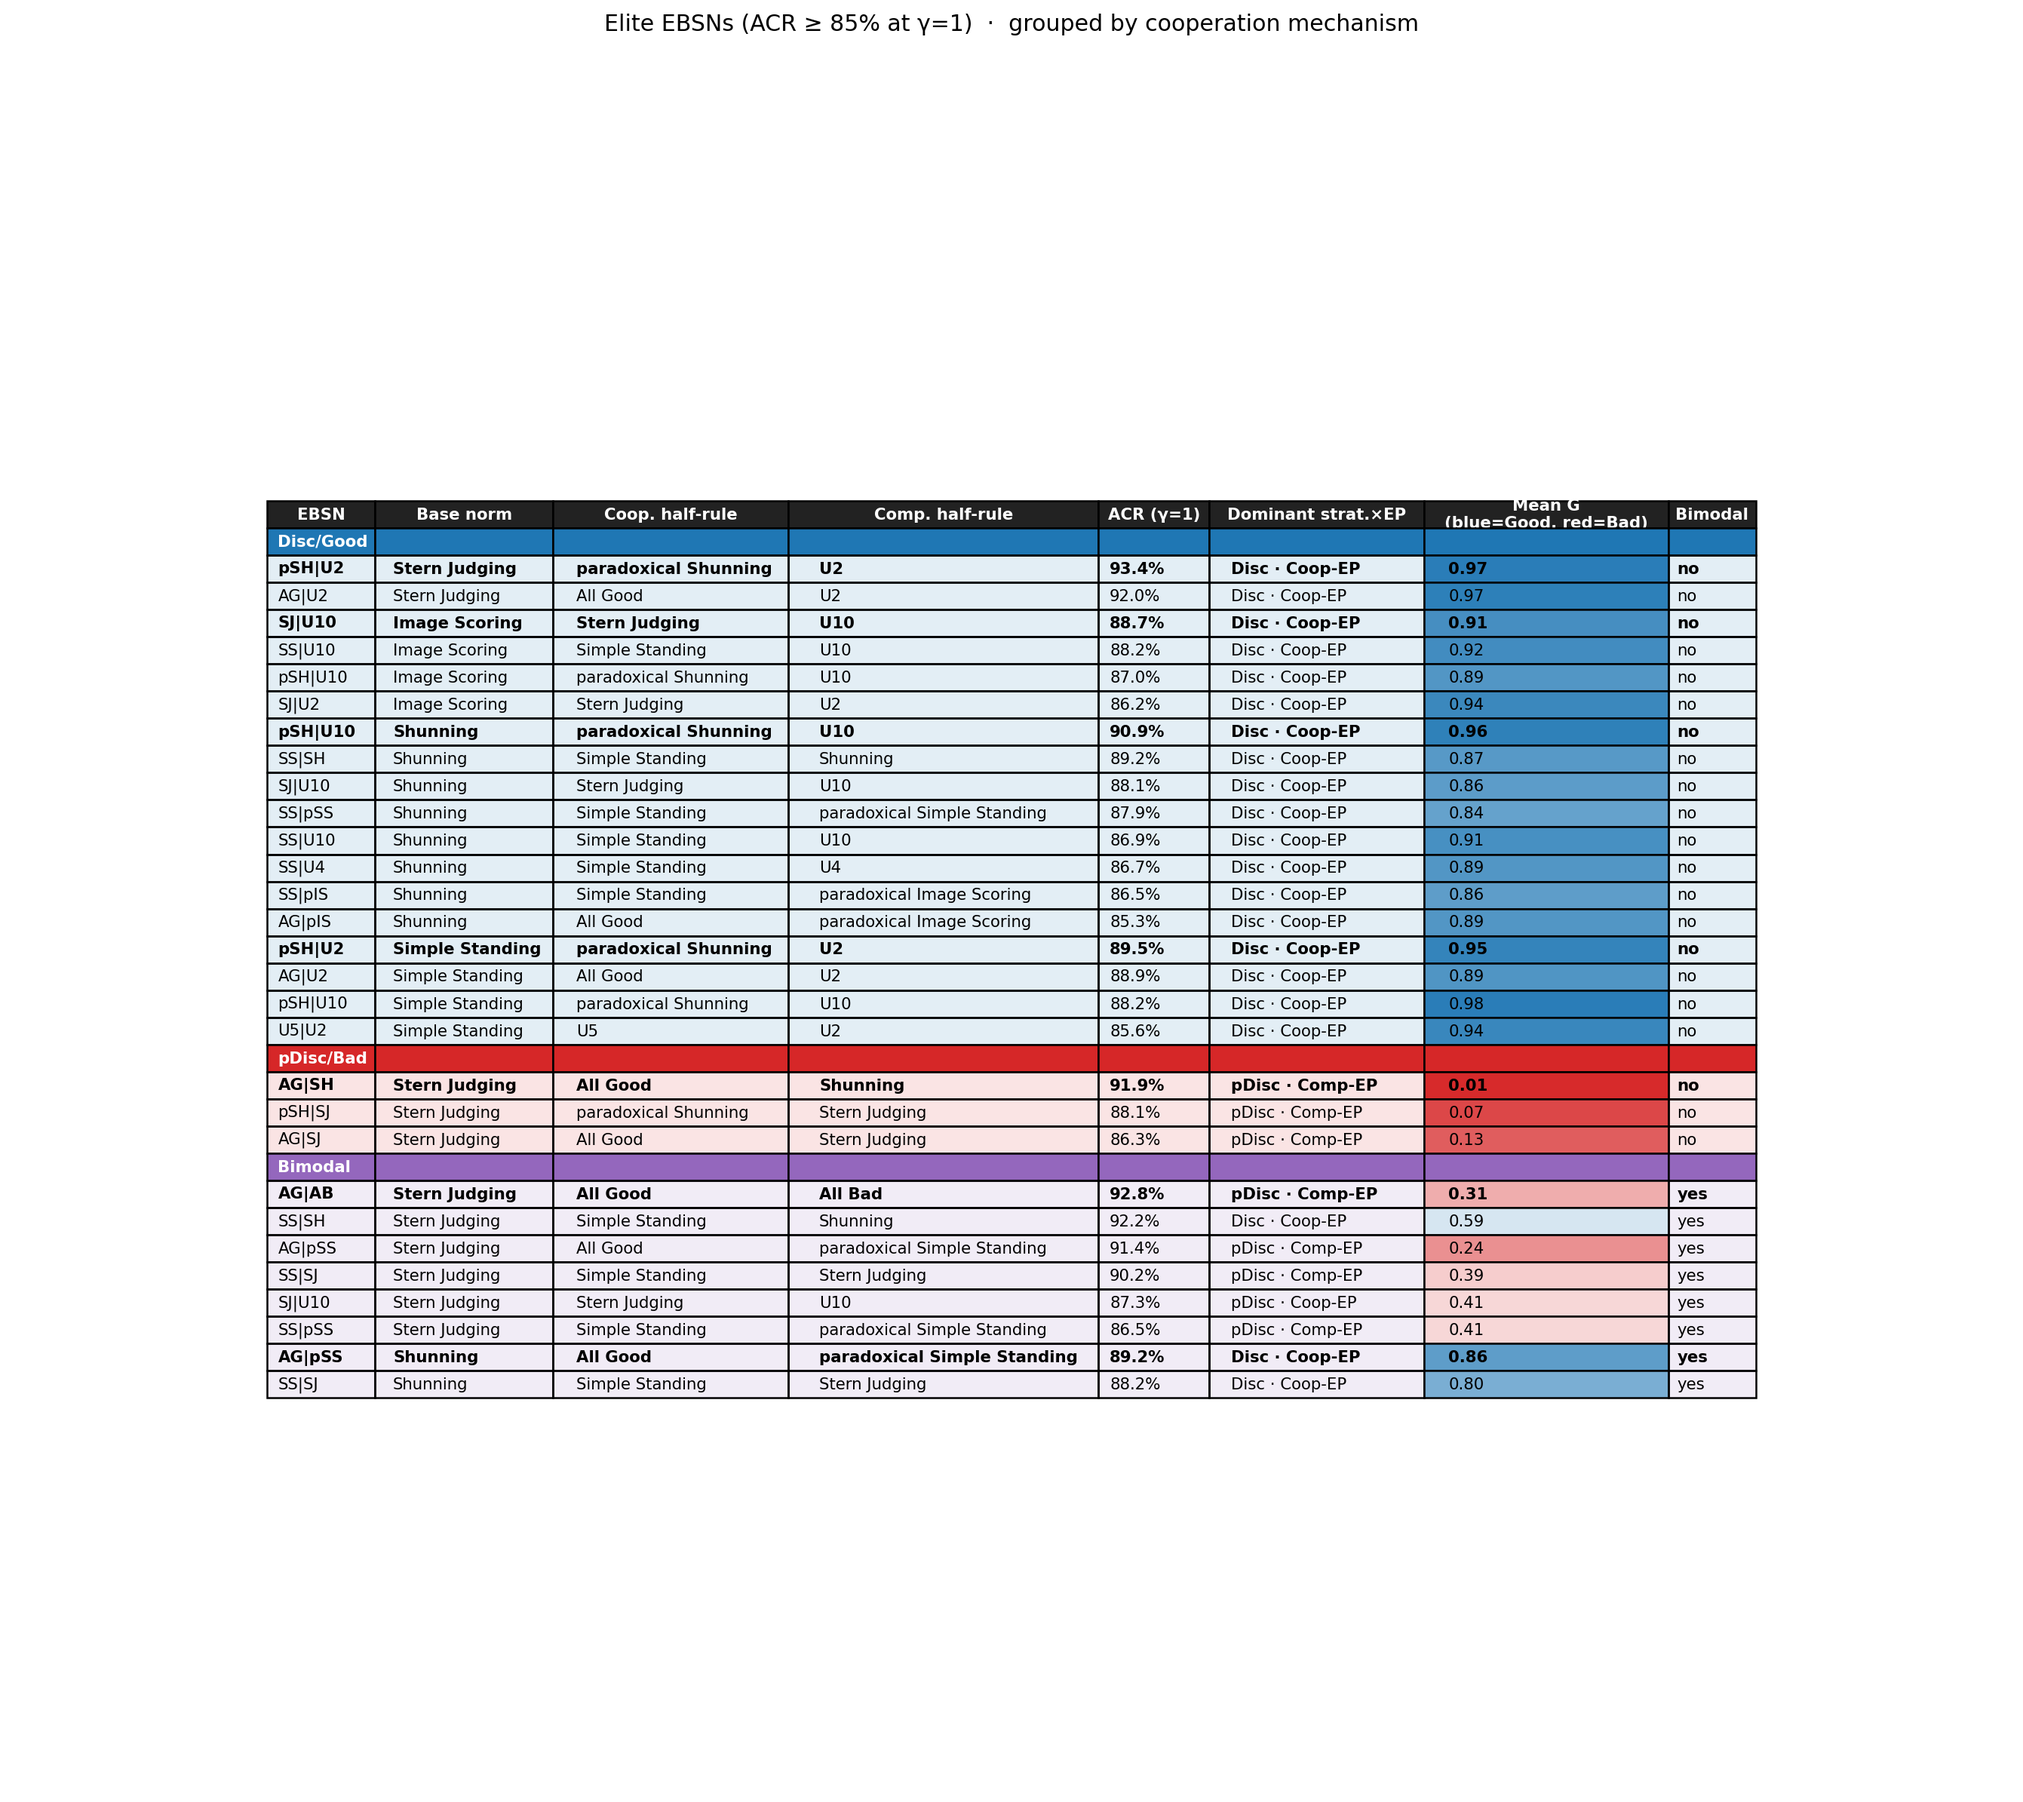
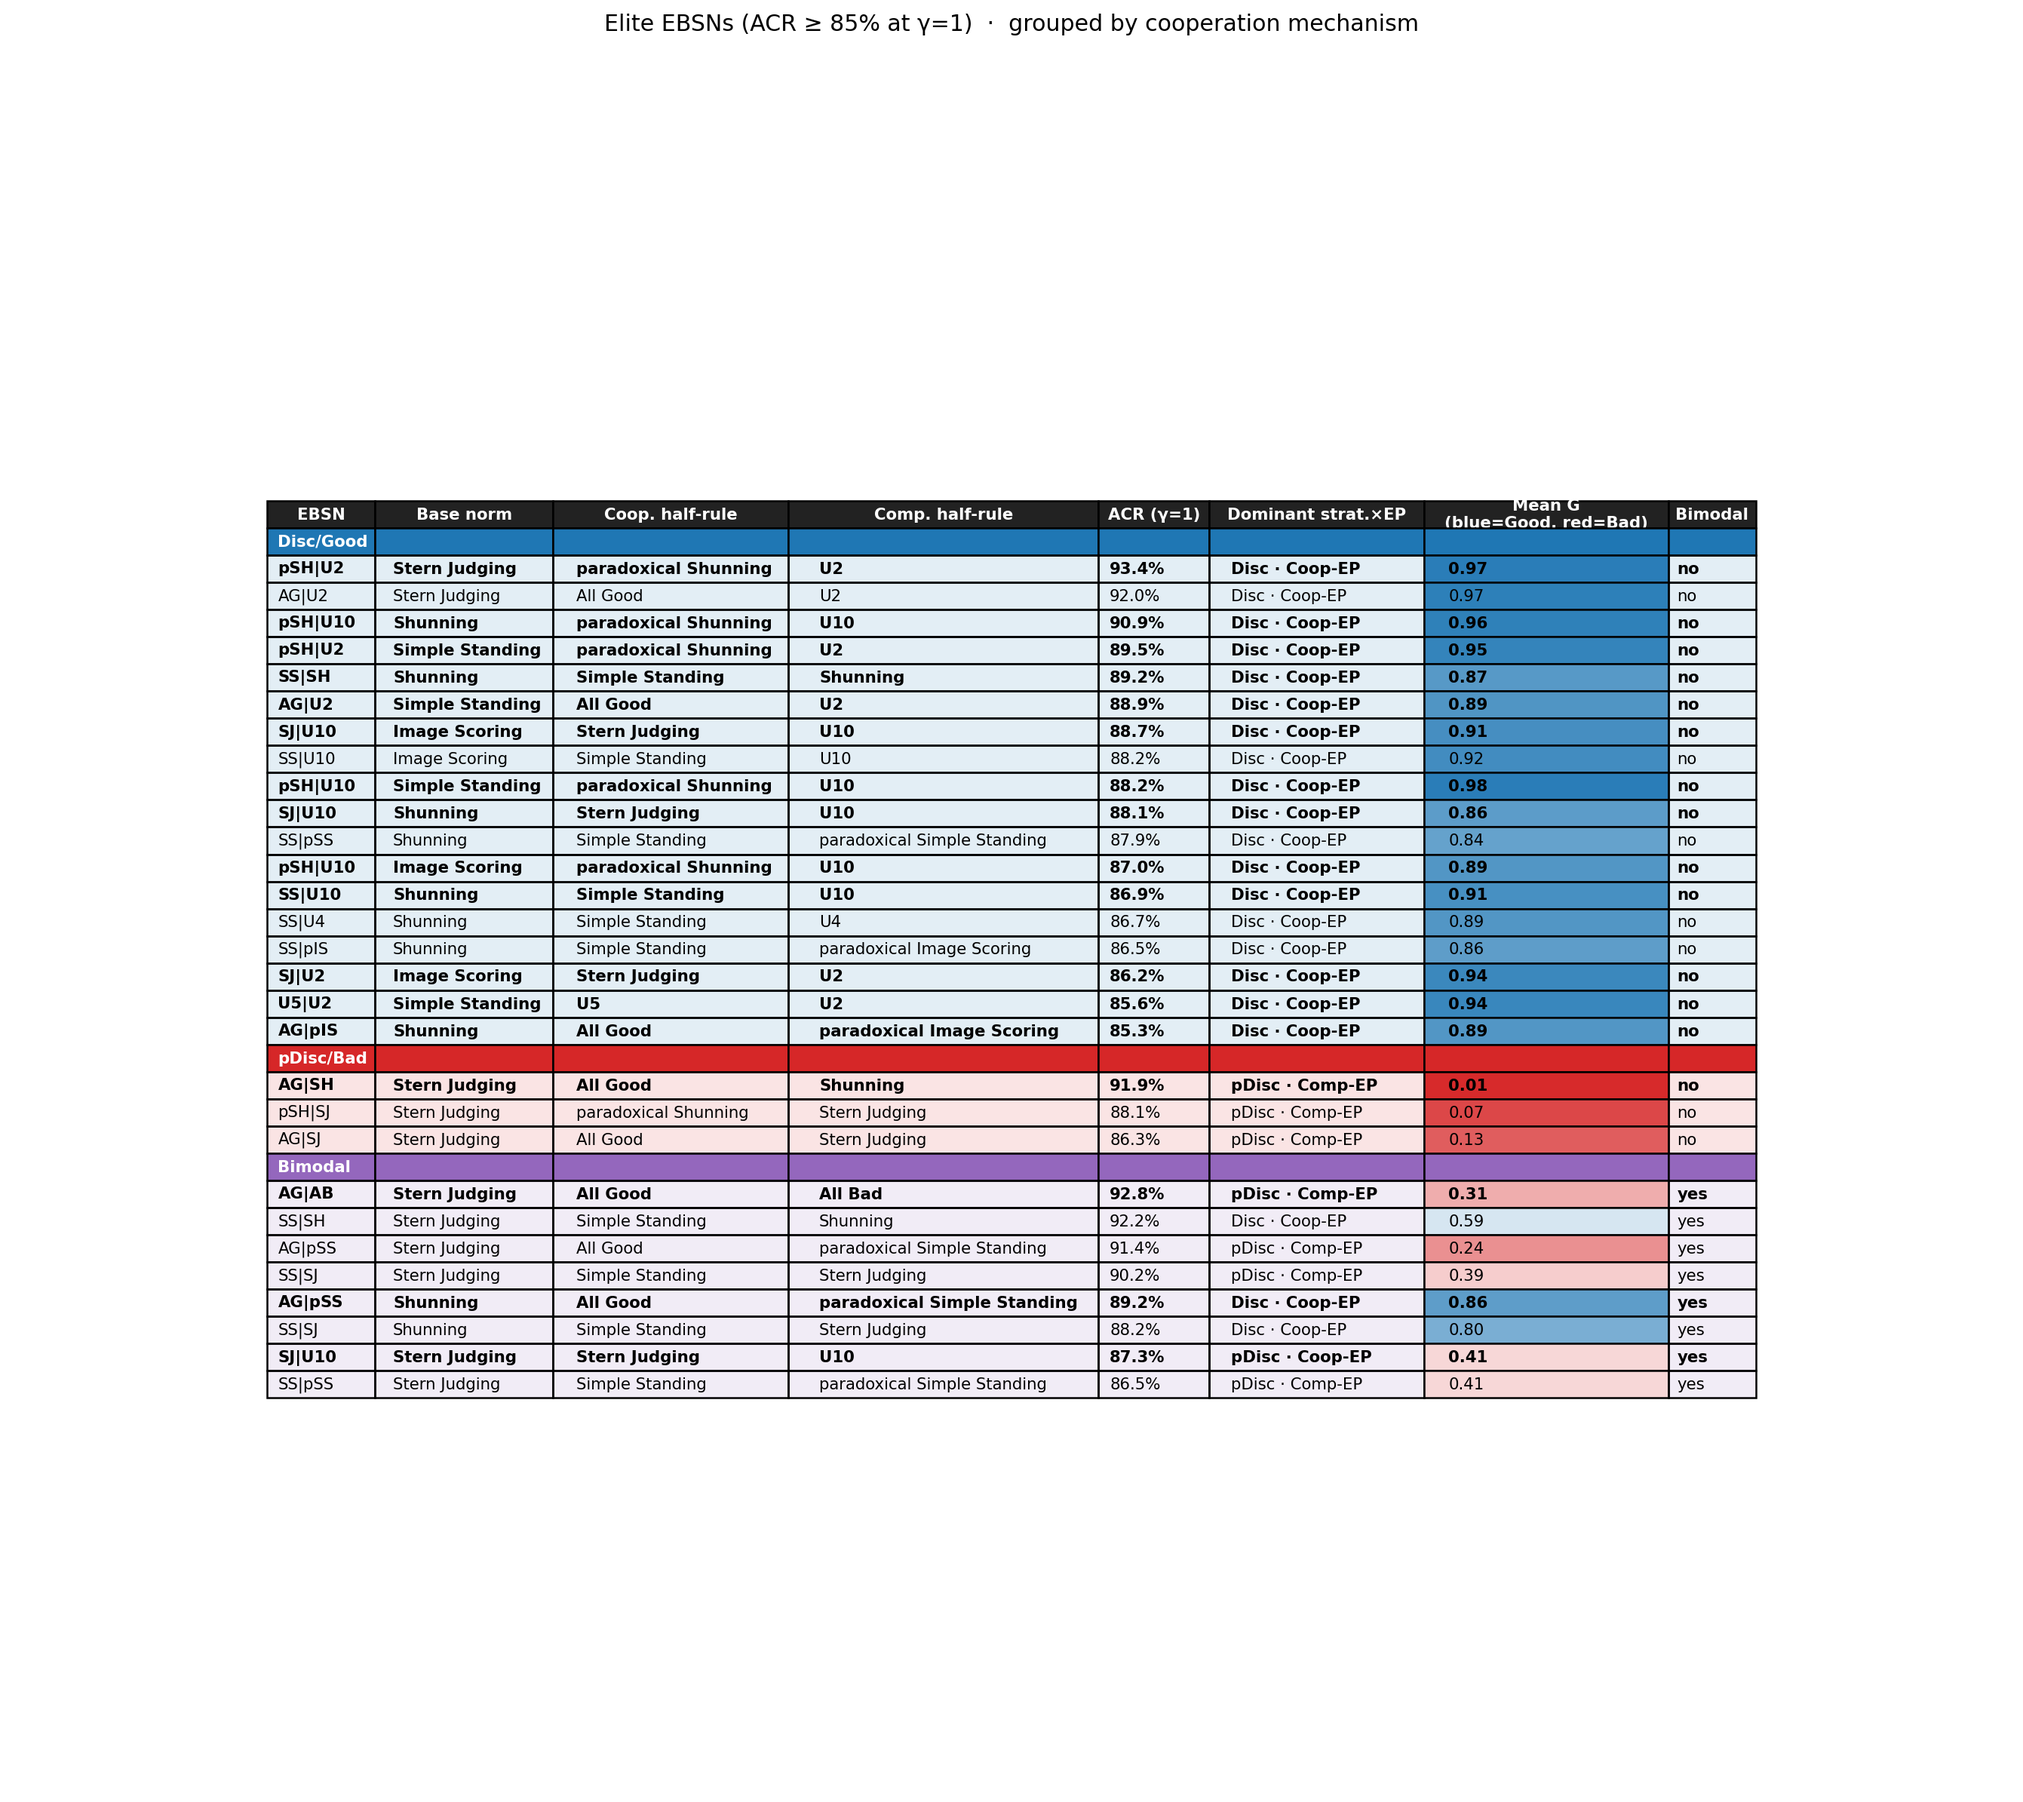
Sort elite table by ACR within equilibrium groups
Remove secondary sort by base norm; entries now ordered purely by
ACR descending within each group. Base column shown on every row,
bolded when the base norm changes from the previous row.

diff --git a/plotting/plots/elite_table.tex b/plotting/plots/elite_table.tex
@@ -10,40 +10,40 @@ EBSN & Base & Coop.\ half-rule & Comp.\ half-rule & ACR\,(\%) & Dom.\ strat.$\ti
 \multicolumn{8}{l}{\textit{Disc\,/\,Good}} \\
 \midrule
 pSH|U2 & \textbf{SJ} & pSH & U2 & 93.4 & Disc$/n$ & 0.97 & --- \\
-AG|U2 &  & AG & U2 & 92.0 & Disc$/n$ & 0.97 & --- \\
-SJ|U10 & \textbf{IS} & SJ & U10 & 88.7 & Disc$/n$ & 0.91 & --- \\
-SS|U10 &  & SS & U10 & 88.2 & Disc$/n$ & 0.92 & --- \\
-pSH|U10 &  & pSH & U10 & 87.0 & Disc$/n$ & 0.89 & --- \\
-SJ|U2 &  & SJ & U2 & 86.2 & Disc$/n$ & 0.94 & --- \\
+AG|U2 & SJ & AG & U2 & 92.0 & Disc$/n$ & 0.97 & --- \\
 pSH|U10 & \textbf{SH} & pSH & U10 & 90.9 & Disc$/n$ & 0.96 & --- \\
-SS|SH &  & SS & SH & 89.2 & Disc$/n$ & 0.87 & --- \\
-SJ|U10 &  & SJ & U10 & 88.1 & Disc$/n$ & 0.86 & --- \\
-SS|pSS &  & SS & pSS & 87.9 & Disc$/n$ & 0.84 & --- \\
-SS|U10 &  & SS & U10 & 86.9 & Disc$/n$ & 0.91 & --- \\
-SS|U4 &  & SS & U4 & 86.7 & Disc$/n$ & 0.89 & --- \\
-SS|pIS &  & SS & pIS & 86.5 & Disc$/n$ & 0.86 & --- \\
-AG|pIS &  & AG & pIS & 85.3 & Disc$/n$ & 0.89 & --- \\
 pSH|U2 & \textbf{SS} & pSH & U2 & 89.5 & Disc$/n$ & 0.95 & --- \\
-AG|U2 &  & AG & U2 & 88.9 & Disc$/n$ & 0.89 & --- \\
-pSH|U10 &  & pSH & U10 & 88.2 & Disc$/n$ & 0.98 & --- \\
-U5|U2 &  & U5 & U2 & 85.6 & Disc$/n$ & 0.94 & --- \\
+SS|SH & \textbf{SH} & SS & SH & 89.2 & Disc$/n$ & 0.87 & --- \\
+AG|U2 & \textbf{SS} & AG & U2 & 88.9 & Disc$/n$ & 0.89 & --- \\
+SJ|U10 & \textbf{IS} & SJ & U10 & 88.7 & Disc$/n$ & 0.91 & --- \\
+SS|U10 & IS & SS & U10 & 88.2 & Disc$/n$ & 0.92 & --- \\
+pSH|U10 & \textbf{SS} & pSH & U10 & 88.2 & Disc$/n$ & 0.98 & --- \\
+SJ|U10 & \textbf{SH} & SJ & U10 & 88.1 & Disc$/n$ & 0.86 & --- \\
+SS|pSS & SH & SS & pSS & 87.9 & Disc$/n$ & 0.84 & --- \\
+pSH|U10 & \textbf{IS} & pSH & U10 & 87.0 & Disc$/n$ & 0.89 & --- \\
+SS|U10 & \textbf{SH} & SS & U10 & 86.9 & Disc$/n$ & 0.91 & --- \\
+SS|U4 & SH & SS & U4 & 86.7 & Disc$/n$ & 0.89 & --- \\
+SS|pIS & SH & SS & pIS & 86.5 & Disc$/n$ & 0.86 & --- \\
+SJ|U2 & \textbf{IS} & SJ & U2 & 86.2 & Disc$/n$ & 0.94 & --- \\
+U5|U2 & \textbf{SS} & U5 & U2 & 85.6 & Disc$/n$ & 0.94 & --- \\
+AG|pIS & \textbf{SH} & AG & pIS & 85.3 & Disc$/n$ & 0.89 & --- \\
 \midrule
 \multicolumn{8}{l}{\textit{pDisc\,/\,Bad}} \\
 \midrule
 AG|SH & \textbf{SJ} & AG & SH & 91.9 & pDisc$/m$ & 0.01 & --- \\
-pSH|SJ &  & pSH & SJ & 88.1 & pDisc$/m$ & 0.07 & --- \\
-AG|SJ &  & AG & SJ & 86.3 & pDisc$/m$ & 0.13 & --- \\
+pSH|SJ & SJ & pSH & SJ & 88.1 & pDisc$/m$ & 0.07 & --- \\
+AG|SJ & SJ & AG & SJ & 86.3 & pDisc$/m$ & 0.13 & --- \\
 \midrule
 \multicolumn{8}{l}{\textit{Bimodal}} \\
 \midrule
 AG|AB & \textbf{SJ} & AG & AB & 92.8 & pDisc$/m$ & 0.31 & $\bullet$ \\
-SS|SH &  & SS & SH & 92.2 & Disc$/n$ & 0.59 & $\bullet$ \\
-AG|pSS &  & AG & pSS & 91.4 & pDisc$/m$ & 0.24 & $\bullet$ \\
-SS|SJ &  & SS & SJ & 90.2 & pDisc$/m$ & 0.39 & $\bullet$ \\
-SJ|U10 &  & SJ & U10 & 87.3 & pDisc$/n$ & 0.41 & $\bullet$ \\
-SS|pSS &  & SS & pSS & 86.5 & pDisc$/m$ & 0.41 & $\bullet$ \\
+SS|SH & SJ & SS & SH & 92.2 & Disc$/n$ & 0.59 & $\bullet$ \\
+AG|pSS & SJ & AG & pSS & 91.4 & pDisc$/m$ & 0.24 & $\bullet$ \\
+SS|SJ & SJ & SS & SJ & 90.2 & pDisc$/m$ & 0.39 & $\bullet$ \\
 AG|pSS & \textbf{SH} & AG & pSS & 89.2 & Disc$/n$ & 0.86 & $\bullet$ \\
-SS|SJ &  & SS & SJ & 88.2 & Disc$/n$ & 0.80 & $\bullet$ \\
+SS|SJ & SH & SS & SJ & 88.2 & Disc$/n$ & 0.80 & $\bullet$ \\
+SJ|U10 & \textbf{SJ} & SJ & U10 & 87.3 & pDisc$/n$ & 0.41 & $\bullet$ \\
+SS|pSS & SJ & SS & pSS & 86.5 & pDisc$/m$ & 0.41 & $\bullet$ \\
 \bottomrule
 \end{tabular}
 \end{table}

diff --git a/plotting/elite_table.py b/plotting/elite_table.py
@@ -126,13 +126,11 @@ def build_table() -> pd.DataFrame:
         rows.append(agg1)
 
     df = pd.concat(rows, ignore_index=True)
-    # Primary sort: equilibrium (Disc/Good first), then base norm order, then ACR desc
+    # Sort: equilibrium group (Disc/Good, pDisc/Bad, Bimodal), then ACR descending
     equil_order = {"Disc/Good": 0, "pDisc/Bad": 1, "Bimodal": 2}
-    base_order_map = {n: i for i, n in enumerate(BASE_ORDER)}
     df["_esort"] = df["equilibrium"].map(equil_order)
-    df["_bsort"] = df["base_norm"].map(base_order_map)
-    df = df.sort_values(["_esort", "_bsort", "acr_1"], ascending=[True, True, False])
-    df = df.drop(columns=["_esort", "_bsort"])
+    df = df.sort_values(["_esort", "acr_1"], ascending=[True, False])
+    df = df.drop(columns=["_esort"])
     return df.reset_index(drop=True)
 
 
@@ -340,7 +338,7 @@ def write_latex_table(df: pd.DataFrame, out_path: Path) -> None:
             prev_equil = eq
             prev_base  = None
 
-        base_cell = rf"\textbf{{{base}}}" if base != prev_base else ""
+        base_cell = rf"\textbf{{{base}}}" if base != prev_base else base
         prev_base = base
 
         acr_str = f"{row['acr_1']*100:.1f}"
